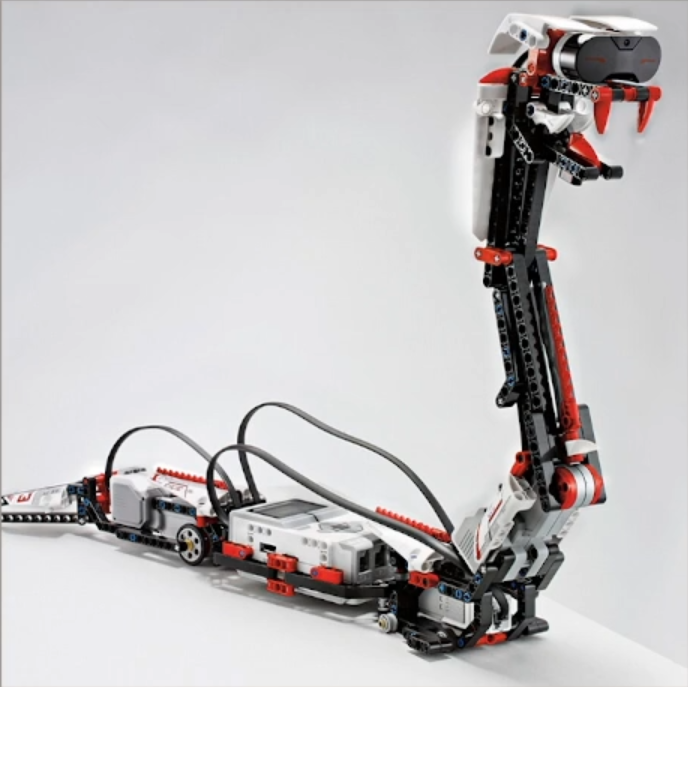
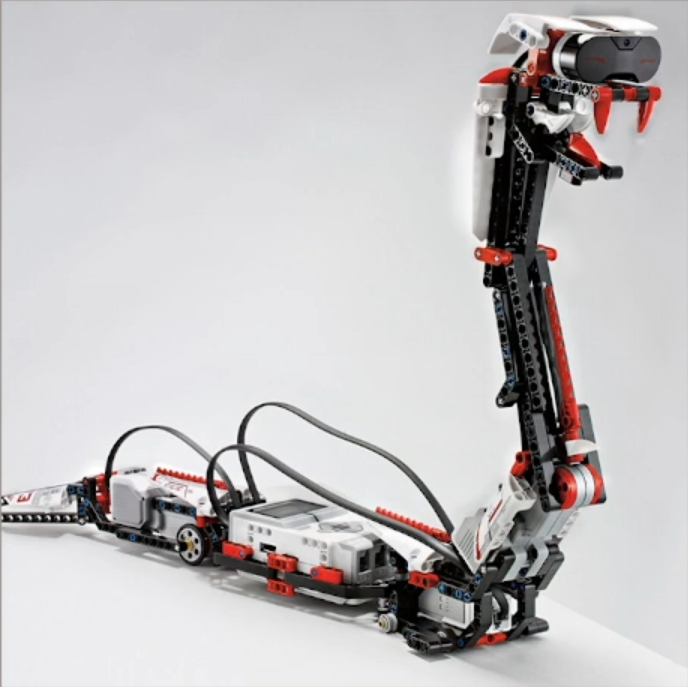
Fixed img size 👌

Changed region(s): [[0.0, 0.0, 1.0, 1.0], [0.0, 0.8813, 0.0305, 1.0], [0.2137, 0.5166, 0.2442, 0.547]]

diff --git a/README.md b/README.md
@@ -8,12 +8,12 @@ A python program that runs on Lego mindstorm and mimics a real life behavior of 
 
 # Architecture preview:
 <p align="center">
-    <img src="assets/architecture.png" alt="Preview" >
+    <img src="assets/architecture.png" alt="Preview" width="250" height="75" >
 </p>
 
 # Project preview: 
 <p align="center">
-    <img src="assets/snake.png" alt="Preview" >
+    <img src="assets/snake.png" alt="Preview" width="250" height="250" >
 </p>
 
 
